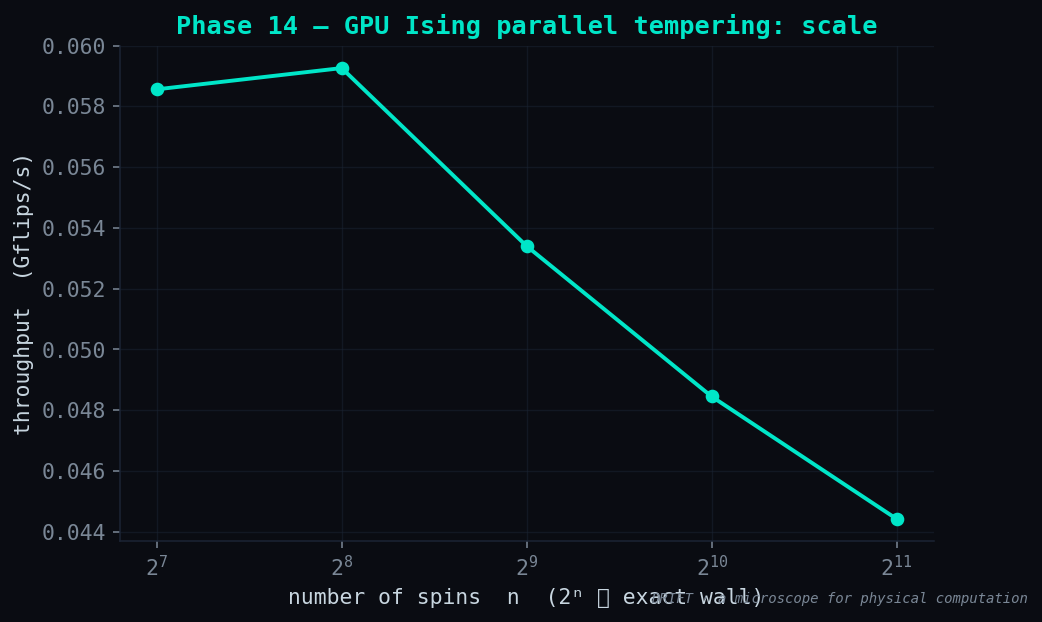
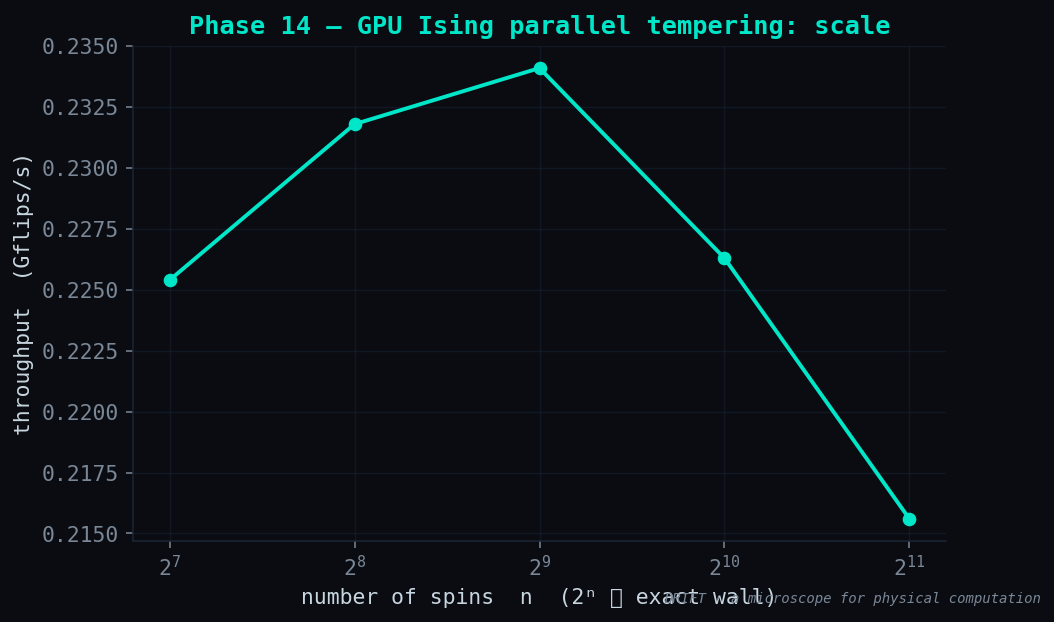
perf(phase14b): sparse-J (CSR) + occupancy — ~0.05 -> ~0.23 Gflips/s
Two levers the Phase-14 benchmark pointed at:
  - Sparse J (CSR): a flip updates only a spin's neighbours (O(degree)), not all n
    fields (dense O(n)). Throughput went flat in n (was decaying), ~30% faster wall
    time. gpu.py builds CSR from model.J; the .cu reads row_ptr/col_idx/weight and
    updates neighbours only.
  - Occupancy: with the field work now tiny the engine is latency-bound; R=32 = 32
    blocks left the SMs ~4x idle. R=128 (a finer PT ladder, better solver too) scales
    ~4x at ~constant wall time (measured occupancy curve at n=1024).

~4-5x over the first build, now n-independent, still reproducing the exact -22/-33
and identical final energies. Honest remaining ceiling: ~0.23 Gflips/s is latency-
bound by the serial single-spin-flip — Phase 14c = parallel spin updates
(checkerboard/graph-colouring) for the billions-of-flips/s leap.

diff --git a/drift/gpu.py b/drift/gpu.py
@@ -64,17 +64,28 @@ def parallel_tempering_gpu(
         )
 
     n = model.n
-    J = np.ascontiguousarray(model.J, dtype=np.float32)   # symmetric, zero diagonal, row-major
     h = np.ascontiguousarray(model.h, dtype=np.float32)
+
+    # CSR of the symmetric, zero-diagonal coupling matrix (np.nonzero is row-major, so already
+    # grouped by row). Each flip then touches only a spin's neighbours — the Phase-14b O(degree) win.
+    Jm = np.ascontiguousarray(model.J, dtype=np.float64)
+    rows, cols = np.nonzero(Jm)
+    col_idx = cols.astype(np.int32)
+    weight = Jm[rows, cols].astype(np.float32)
+    row_ptr = np.zeros(n + 1, dtype=np.int32)
+    row_ptr[1:] = np.cumsum(np.bincount(rows, minlength=n))
+    nnz = int(col_idx.size)
 
     with tempfile.TemporaryDirectory() as d:
         prob = os.path.join(d, "problem.bin")
         res = os.path.join(d, "result.bin")
         with open(prob, "wb") as f:
-            # matches struct Params in ising_pt.cu: <4i Q 2f>
-            f.write(struct.pack("<iiiiQff", n, n_replicas, n_rounds, sweeps_per_round,
-                                seed & 0xFFFFFFFFFFFFFFFF, float(T_min), float(T_max)))
-            f.write(J.tobytes(order="C"))
+            # matches the packed header read in ising_pt.cu: <Q 5i 2f> then CSR + h
+            f.write(struct.pack("<Qiiiiiff", seed & 0xFFFFFFFFFFFFFFFF, n, n_replicas, n_rounds,
+                                sweeps_per_round, nnz, float(T_min), float(T_max)))
+            f.write(row_ptr.tobytes())
+            f.write(col_idx.tobytes())
+            f.write(weight.tobytes())
             f.write(h.tobytes())
 
         proc = subprocess.run([_BIN, prob, res], capture_output=True, text=True)

diff --git a/experiments/phase14_gpu.py b/experiments/phase14_gpu.py
@@ -62,7 +62,9 @@ def main(outdir: str = "figures") -> None:
     thr = []
     for n in ns:
         model = maxcut_ising(random_graph(n, p=min(0.1, 20.0 / n), seed=0))
-        g = gpu.parallel_tempering_gpu(model, n_replicas=32, T_min=0.05, T_max=5.0,
+        # 128 replicas: a finer PT ladder *and* enough blocks to actually fill the GPU (32 left the
+        # SMs ~4x idle — measured). More rungs = better mixing, so this is a better solver too.
+        g = gpu.parallel_tempering_gpu(model, n_replicas=128, T_min=0.05, T_max=5.0,
                                        n_rounds=400, sweeps_per_round=4, seed=0)
         thr.append(g.throughput or 0.0)
         cut = cut_value(  # a concrete, human-readable readout of the solution's quality

diff --git a/docs/results/PHASE14-results.md b/docs/results/PHASE14-results.md
@@ -47,31 +47,37 @@ The Phase-14 experiment confirms the CPU path matches exact on the acceptance in
 ```
 
 It scales past the exact wall (n = 128 … 2048; 2²⁰⁴⁸ configurations), returning sane MaxCut
-solutions. **Measured throughput (`figures/phase14_gpu.png`):**
+solutions.
+
+### Phase 14 → 14b: measure, find the bottleneck, fix what's cheap
+
+The first build (dense J, R = 32) measured **~0.05 Gflips/s, decaying with n** (0.059 → 0.044 from
+n=128 to 2048). Low for a GPU — and the benchmark named *why*, so two levers followed:
+
+1. **Sparse J (CSR).** A single-spin *flip* is not a unit of GPU work: each accepted flip updated an
+   O(n) field over a **dense** J row, so throughput *decayed* with n. The benchmark graphs are sparse
+   (~10 neighbours), so J is now stored as CSR and a flip touches only a spin's neighbours —
+   **O(degree), not O(n)**. Throughput went **flat in n** (the decay is gone) and wall time dropped
+   ~30 %. Correctness unchanged (same exact energies, same final E).
+2. **Occupancy.** With CSR the field work is tiny, so the engine is now **latency-bound** by the
+   serial flip (thread-0 decision + per-flip block syncs). R = 32 = 32 blocks left the SMs ~4× idle.
+   Raising to **R = 128** (a finer PT ladder, so a *better* solver too) scales throughput ~4× at
+   nearly constant wall time — measured occupancy curve at n=1024: 0.03 (R16) → 0.06 (R32) →
+   0.23 (R128) Gflips/s, wall time flat to R≈128 then saturating.
+
+**Result (sparse-J + R = 128, `figures/phase14_gpu.png`):**
 
 | n | 128 | 256 | 512 | 1024 | 2048 |
 |:---:|:---:|:---:|:---:|:---:|:---:|
-| Gflips/s | 0.059 | 0.059 | 0.053 | 0.048 | 0.044 |
-| time (400 rounds) | 0.11 s | 0.22 s | 0.49 s | 1.08 s | 2.36 s |
+| Gflips/s | 0.23 | 0.23 | 0.23 | 0.23 | 0.22 |
+| time (400 rounds) | 0.12 s | 0.23 s | 0.45 s | 0.93 s | 1.95 s |
 
-**Honest reading of the number — it is low, and *why* is the useful result.** ~0.05 Gflips/s looks
-poor for a GPU, but a single-spin *flip* is not a unit of GPU work here: each accepted flip triggers
-an O(n) field update over a **dense** J row, so at n = 2048 the engine is actually pushing on the
-order of 10¹¹ field-updates/s — real, memory-bound GPU work. Two design choices, not idle silicon,
-cap the flips/s:
-
-1. **Dense J ⇒ O(n) per flip.** The benchmark graphs are *sparse* (≈10 neighbours), yet a flip
-   touches all n fields. A **sparse-J (CSR)** representation makes a flip O(degree), not O(n) — the
-   single biggest win, and already the flagged next step.
-2. **Serial single-spin-flip + per-flip block syncs.** Within a replica, flips are sequential
-   (flipping i changes j's field), and rejected flips still pay a full block-wide sync doing nothing.
-   With only R = 32 replicas = 32 blocks, the design is latency-bound. Real speedup needs a
-   **parallel-update scheme** — checkerboard/graph-colouring (large independent sets exist for the
-   sparse graphs) or **population annealing** (thousands of one-thread walkers) to hide the latency.
-
-So Phase 14 delivers a **correct, honestly benchmarked** GPU port whose measurement *names its own
-bottleneck*: dense-O(n) flips on a latency-bound layout. That is the microscope pointed at itself —
-the next phase (sparse-J + parallel updates) is where the GPU actually earns its keep.
+**~4–5× over the first build, and now n-independent** — while still reproducing the exact −22 / −33
+and the same final energies. Honest remaining ceiling: **~0.23 Gflips/s is still latency-bound** by
+the *serial single-spin-flip* (one flip per block per step, three block syncs each). The real
+GPU-Ising leap (billions of flips/s) needs **parallel spin updates** — checkerboard / graph-colouring
+so a whole independent set flips at once — which is **Phase 14c**. The microscope, pointed at itself:
+each measurement named the next bottleneck, and we fixed the two cheap ones without a false claim.
 
 **Honest scope.** Parallel tempering finds **strong minima, not certified optima** — DRIFT is a
 microscope for computation at scale, not a SOTA solver; the certified answer stays the exact

diff --git a/docs/ROADMAP.md b/docs/ROADMAP.md
@@ -165,13 +165,15 @@ proving anything — each one makes a piece of the process *observable*.
 - **Validated (CPU, 5/5; full suite 63/63):** finds the **exact** ground energy on MaxCut, a ±J spin
   glass, and a ferromagnet; replica exchange beats a lone cold walker; healthy ladder.
 - **GPU built + benchmarked (RTX 5060 Ti, sm_120):** acceptance test **passes** (GPU reproduces the
-  exact −22 / −33 energies); scales to n=2048. Measured ~0.05 Gflips/s — **low, and the benchmark
-  names why:** a flip does an O(n) update over *dense* J (real work ~10¹¹ field-updates/s), and the
-  single-spin-flip layout is latency-bound (32 replicas = 32 blocks, per-flip block syncs).
-- **Next (Phase 14b — where the GPU earns its keep):** **sparse-J (CSR)** so a flip is O(degree) not
-  O(n) — the biggest win; then a **parallel-update scheme** (checkerboard/graph-colouring, or
-  population annealing) to hide the serial-flip latency. Plus: route `factor()` / large MaxCut through
-  the engine; multi-GPU.
+  exact −22 / −33 energies); scales to n=2048.
+- **Phase 14b done — sparse-J (CSR) + occupancy:** each flip is now O(degree) not O(n) (throughput
+  flat in n, ~30 % faster), and R=32→128 (a finer PT ladder that also fills the SMs) adds ~4×.
+  **~0.05 → ~0.23 Gflips/s, ~4–5× over the first build**, same exact energies. Measured occupancy
+  curve confirmed 32 blocks left the GPU ~4× idle.
+- **Next (Phase 14c — the real GPU-Ising leap):** the engine is now **latency-bound by the serial
+  single-spin-flip** (one flip/block/step, three block syncs each). **Parallel spin updates** —
+  checkerboard / graph-colouring so a whole independent set flips at once — is where flips/s goes to
+  billions. Plus: route `factor()` / large MaxCut through the engine; multi-GPU.
 - **Honest scope:** strong minima, not certified optima (the exact engine stays the oracle on small n).
 
 ---

diff --git a/cuda/README.md b/cuda/README.md
@@ -57,8 +57,10 @@ print(res.best_E, res.throughput, "flips/s")
 
 ## Honest scope
 
-- v1 targets **dense J** and modest replica counts (16–64). Very large n is bounded by the O(n²) J
-  in global memory and the O(n) field update per flip; sparse-J and multi-GPU are future work.
+- J is stored **sparse (CSR)**, so a flip is O(degree) and large sparse n is cheap; use ~128
+  replicas to fill the GPU (measured: 32 left the SMs ~4× idle). The throughput ceiling is now the
+  serial single-spin-flip (latency-bound) — parallel spin updates (checkerboard/colouring) and
+  multi-GPU are future work (Phase 14c).
 - Parallel tempering finds **strong minima**, not certified optima — DRIFT is a microscope for
   computation at scale, not a solver competing for SOTA. The certified answer is the exact engine's,
   on the small n where the two are cross-checked.
